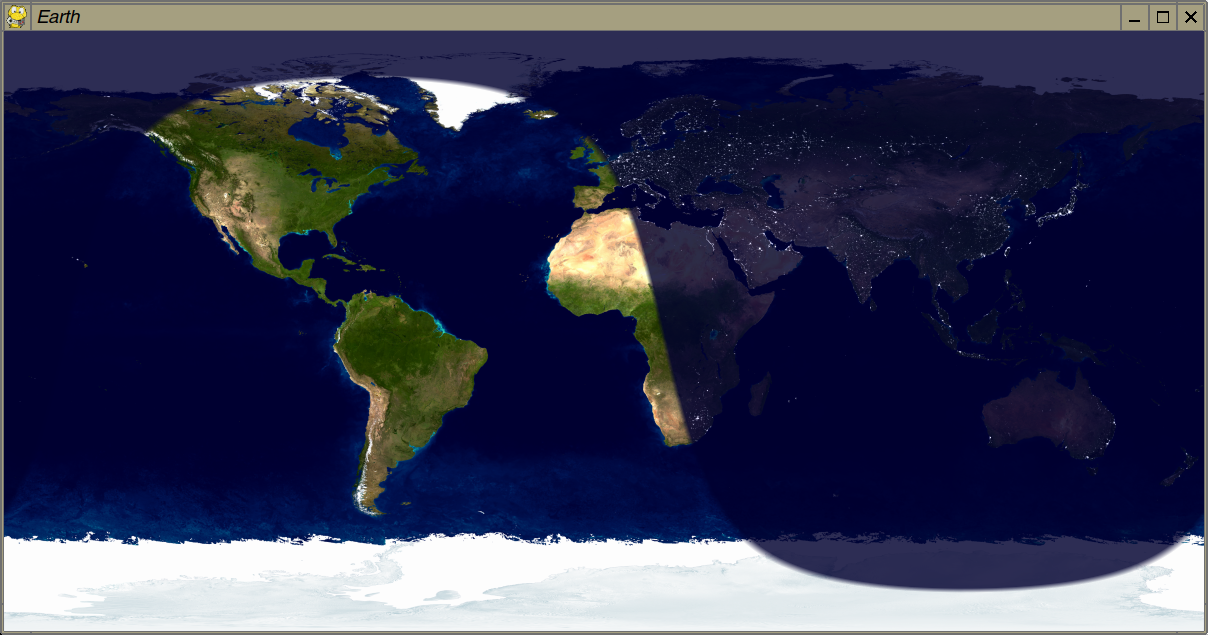
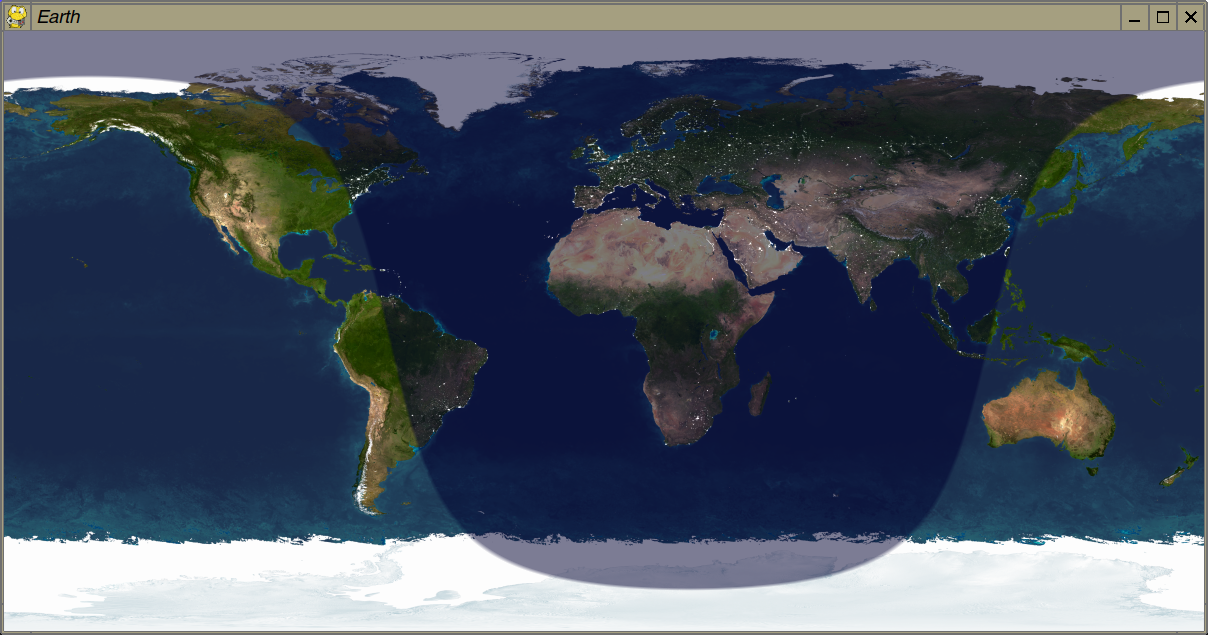
add new map

diff --git a/earth4k.py b/earth4k.py
@@ -15,7 +15,7 @@ from math import *
 import os, sys, time
 import pygame
 
-day   = "earth4k.png"        # image for day
+day   = "earth4k_2.png"      # image for day
 bgmap_d = pygame.image.load(day)
 night = "nightearth.png"     # image for night
 bgmap_n = pygame.image.load(night)
